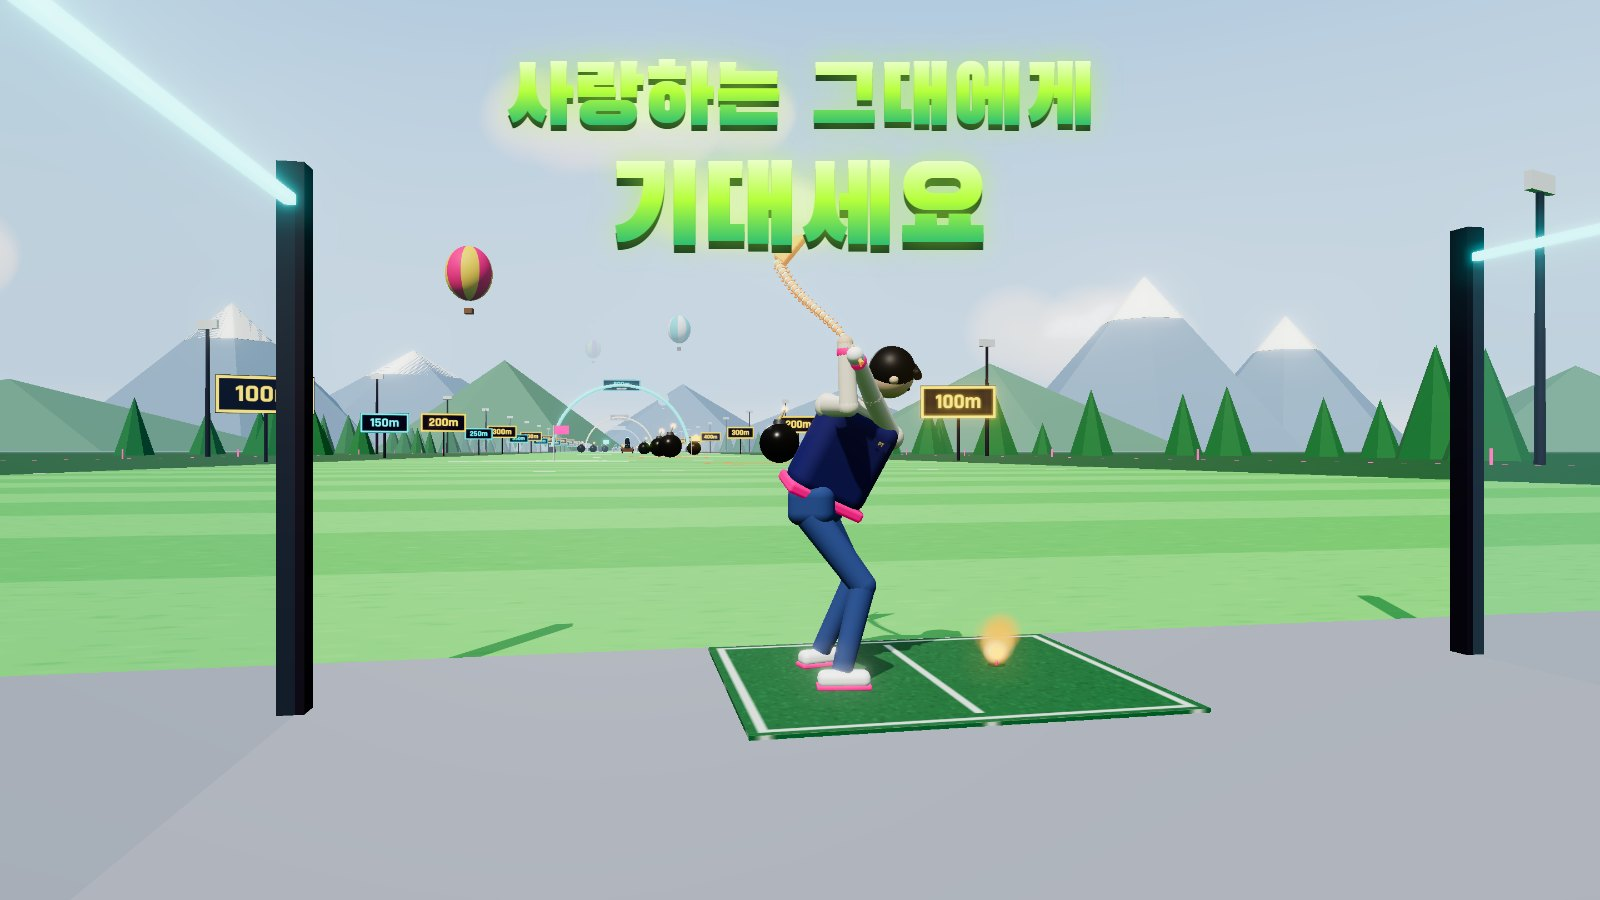
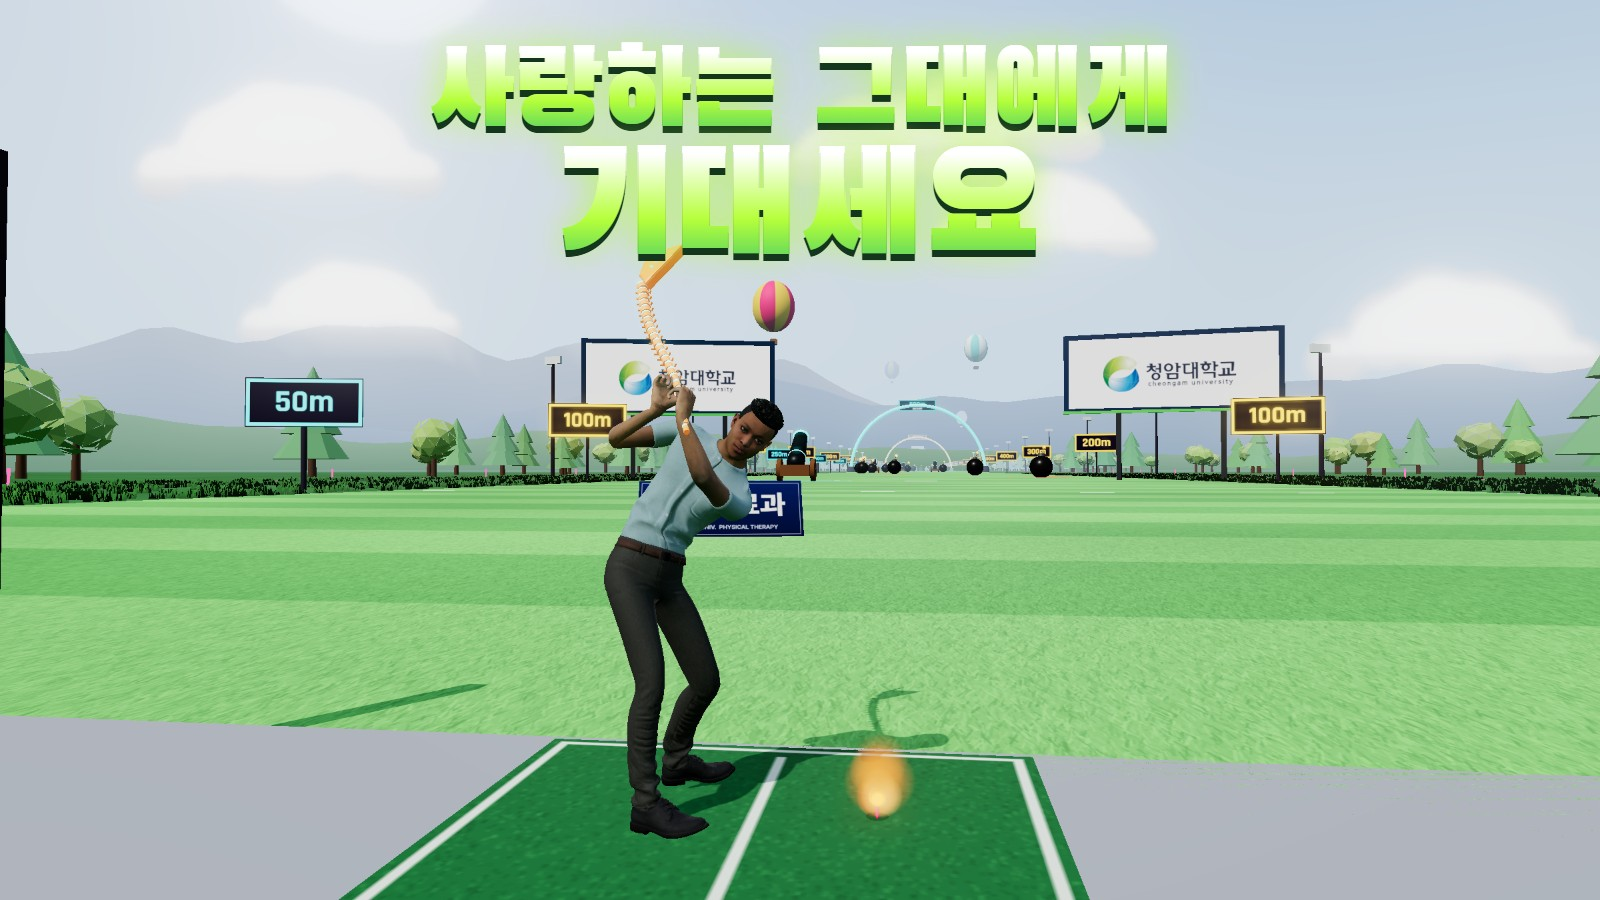
Golf game: 제리 unlocks at 500m, 라이더 at 1000m; new hub photos
- Characters with need: N open when the best distance reaches N m;
  locked buttons show the distance, a toast announces a new unlock
- Backswing-top detection scales to each character's hand range
  (short 제리 was picking the finish)
- The old stick-figure student stays hidden while a character loads
- Hub: new cover and banner background captured from the current game
- view3d.js?v=50, sw cache bump

diff --git a/games/LongDrive/index.html b/games/LongDrive/index.html
@@ -104,6 +104,7 @@ button { font: inherit; color: inherit; cursor: pointer; border: 0; background: 
 .charBtn.on { border-color: var(--lime); background: rgba(182, 255, 59, .14); box-shadow: 0 0 14px rgba(182, 255, 59, .35); }
 .charBtn.lock { opacity: .45; filter: grayscale(1); }
 .charBtn .lk { position: absolute; top: 5px; right: 6px; font-size: 14px; }
+.charBtn .need { display: block; font-size: 11px; font-weight: 700; color: var(--gold); margin-top: 1px; }
 .charTitle { font-size: 12px; color: var(--sub); margin: 0 0 6px 2px; }
 .who { margin-top: 12px; text-align: center; font-size: 13px; color: var(--sub); }
 .who b { color: var(--cyan); }
@@ -280,7 +281,7 @@ button { font: inherit; color: inherit; cursor: pointer; border: 0; background: 
 { "imports": { "three": "https://cdn.jsdelivr.net/npm/three@0.160.0/build/three.module.js",
                "three/addons/": "https://cdn.jsdelivr.net/npm/three@0.160.0/examples/jsm/" } }
 </script>
-<script type="module" src="view3d.js?v=49"></script>   <!-- 3D 코드를 고치면 v 숫자도 올려요 (휴대폰 옛 사본 방지) -->
+<script type="module" src="view3d.js?v=50"></script>   <!-- 3D 코드를 고치면 v 숫자도 올려요 (휴대폰 옛 사본 방지) -->
 <script>
 "use strict";
 /* ═══════════════════════════════════════════════════════════════
@@ -303,13 +304,14 @@ const CLUBS = [
 ];
 const OLD_CLUB_PRICES = [0, 60, 150, 300, 550, 900];   // 예전 금속 채 6개 (2026-11-18 까지) — 산 사람에게 캐쉬를 돌려줘요
 // 골프공 (4개, 약한 순서): drag = 공기 저항(작을수록 멀리), roll = 떨어진 뒤 굴러가는 비율, wind = 바람 영향. 3D 모양은 view3d.js buildBall()
-// 캐릭터 (Mixamo, models/chars/<file>.glb) · lock: true 면 잠겨 있어서 못 골라요
+// 캐릭터 (Mixamo, models/chars/<file>.glb · 사진은 <file>.webp) · need: 내 최고 기록이 이 거리(m) 이상이면 열려요
 const CHARS = [
   { name: "남자", ic: "🧑", file: "man" },
   { name: "여자", ic: "👩", file: "woman" },
-  { name: "제리", ic: "🐭", file: "mouse", lock: true },
-  { name: "라이더", ic: "🏍", file: "rider", lock: true },
+  { name: "제리", ic: "🐭", file: "mouse", need: 500 },
+  { name: "라이더", ic: "🏍", file: "rider", need: 1000 },
 ];
+const charLocked = (c, best = S.best) => !!c.need && best < c.need;
 const BALLS = [
   { name: "기본 골프공", ic: "⚪", price: 0,   drag: 1.00, roll: .18, wind: 1.00, desc: "평범한 하얀 골프공 · 기본" },
   { name: "무릎뼈 공",   ic: "🦴", price: 60,  drag: .88,  roll: .22, wind: .85,  desc: "무릎뼈만 떼어 만든 세모난 공" },
@@ -342,7 +344,7 @@ function fix(d) {
   s.owned = Object.assign({ club: [0], ball: [0] }, s.owned || {});
   s.club = Math.min(Math.max(0, s.club | 0), CLUBS.length - 1); s.ball = Math.min(Math.max(0, s.ball | 0), BALLS.length - 1);
   s.power = Math.min(Math.max(0, s.power | 0), POWER_MAX);
-  s.char = Math.min(Math.max(0, s.char | 0), CHARS.length - 1); if (CHARS[s.char].lock) s.char = 0;
+  s.char = Math.min(Math.max(0, s.char | 0), CHARS.length - 1); if (CHARS[s.char].need && s.best < CHARS[s.char].need) s.char = 0;
   if (d && (d.cv || 1) < 2) {   // 골프채가 뼈 채 4개로 바뀜: 예전 채 값을 돌려주고 기본 채부터
     s.cash += [...new Set(s.owned.club || [])].reduce((sum, i) => sum + (OLD_CLUB_PRICES[i] || 0), 0);
     s.owned.club = [0]; s.club = 0; s.cv = 2;
@@ -597,6 +599,8 @@ function finishShot() {
   if (ob) { msg.classList.add("ob"); msg.textContent = "옆으로 너무 벗어났어요! 기록 없음 😵"; sub.textContent = "노란 칸에 맞춰 칠수록 똑바로 날아가요"; snd("wrong"); }
   else if (dist > S.best + .05) {
     const before = S.best; S.best = Math.round(dist * 10) / 10;
+    const opened = CHARS.filter(c => charLocked(c, before) && !charLocked(c));
+    if (opened.length) setTimeout(() => { toast(`🔓 새 캐릭터 해금! ${opened.map(c => c.ic + ' ' + esc(c.name)).join(' · ')}<br><small>메뉴에서 고를 수 있어요</small>`); snd("buy"); }, 1200);
     msg.classList.add("best"); msg.textContent = before > 0 ? `🎉 최고 기록 갱신! (+${(dist - before).toFixed(1)}m)` : "🎉 첫 기록!";
     sub.textContent = member() ? "랭킹에 올리는 중…" : "로그인하면 이 기록이 랭킹에 올라가요";
     snd("best"); recordBest(dist).then(() => { if (member()) sub.textContent = topBoard && topBoard.myRank ? `지금 ${topBoard.myRank}위!` : "랭킹 저장 완료"; });
@@ -660,10 +664,10 @@ function refreshAll() {
 }
 function renderChars() {
   const box = $("charList"); if (!box) return;
-  box.innerHTML = CHARS.map((c, i) => `<button class="charBtn${i === S.char ? " on" : ""}${c.lock ? " lock" : ""}" data-char="${i}"><img src="models/chars/${c.file}.webp" alt="" draggable="false">${esc(c.name)}${c.lock ? '<span class="lk">🔒</span>' : ""}</button>`).join("");
+  box.innerHTML = CHARS.map((c, i) => { const lk = charLocked(c); return `<button class="charBtn${i === S.char ? " on" : ""}${lk ? " lock" : ""}" data-char="${i}"><img src="models/chars/${c.file}.webp" alt="" draggable="false">${esc(c.name)}${lk ? `<span class="need">🔒 ${fmt(c.need)}m</span>` : ""}</button>`; }).join("");
   box.querySelectorAll("[data-char]").forEach(b => b.onclick = () => {
     const i = +b.dataset.char, c = CHARS[i];
-    if (c.lock) { toast(`🔒 ${esc(c.name)} 캐릭터는 아직 잠겨 있어요`); return; }
+    if (charLocked(c)) { toast(`🔒 최고 기록 ${fmt(c.need)}m 를 넘기면 ${esc(c.name)} 캐릭터가 열려요<br><small>지금 내 최고 ${fmt(S.best)}m</small>`); return; }
     if (i === S.char) return;
     S.char = i; snd("buy"); toast(`${c.ic} ${esc(c.name)} 캐릭터로 바꿨어요!`); save(); refreshAll();
   });

diff --git a/games/LongDrive/view3d.js b/games/LongDrive/view3d.js
@@ -650,6 +650,7 @@ function swingPose(now) {
  *  캐릭터 목록 · 잠금은 index.html 의 CHARS 에 있어요 (파일 이름이 같아야 해요).
  * ═══════════════════════════════════════════════════════════════ */
 const CHAR_FILES = ['man', 'woman', 'mouse', 'rider'];
+golfer.visible = false;   // 캐릭터 파일을 받는 동안 옛 학생이 잠깐 보이지 않게
 const CLUB_LEN0 = CLUB_LEN;   // 학생 기준 채 길이 (공 자리 계산용)
 const FBX = { model: null, mixer: null, act: null, lead: null, trail: null, armL: null, armR: null, hips: null, t: { addr: 0, top: 0, imp: 0, fin: 0 } };
 let charWant = -1, charToken = 0;
@@ -672,6 +673,7 @@ function loadChar(i) {
     o.traverse(b => { if (/LeftHand$/.test(b.name)) F.lead = b; if (/RightHand$/.test(b.name)) F.trail = b; if (/LeftArm$/.test(b.name)) F.armL = b; if (/RightArm$/.test(b.name)) F.armR = b; if (/Hips$/.test(b.name)) F.hips = b; });
     if (!F.lead || !F.trail || !F.armL || !F.armR || !F.hips) return;
     if (FBX.model) golfer.remove(FBX.model);
+    golfer.visible = true;
     Object.assign(FBX, F, { model: null });
     golfer.add(o);
     FBX.mixer = new THREE.AnimationMixer(o); FBX.act = FBX.mixer.clipAction(clip); FBX.act.play();
@@ -682,7 +684,8 @@ function loadChar(i) {
     // 백스윙 꼭대기 = 손이 처음으로 높이 올라갔다가 다시 내려가기 시작하는 순간 (피니시가 더 높아서 '가장 높은 곳'은 안 돼요)
     const n = ys.length, y0 = Math.min(...ys.slice(0, Math.round(.6 / step)));
     let iTop = 1;
-    for (let i = 1; i < n - 1; i++) { if (ys[i] > y0 + .35 && ys[i] >= ys[i - 1] && ys[i] >= ys[i + 1]) { iTop = i; break; } }
+    const yMax = Math.max(...ys), thr = y0 + (yMax - y0) * .45;   // 키가 작은 캐릭터도 맞게 (손이 오르는 높이의 45%)
+    for (let i = 1; i < n - 1; i++) { if (ys[i] > thr && ys[i] >= ys[i - 1] && ys[i] >= ys[i + 1]) { iTop = i; break; } }
     const iImp = argmin(iTop, Math.min(n, iTop + Math.round(.7 / step)));
     const iFin = argmax(iImp, Math.min(n, iImp + Math.round(1 / step)));
     const iAddr = argmin(0, iTop);
@@ -705,7 +708,7 @@ function loadChar(i) {
     clubGroups.forEach(g => g && golfer.remove(g)); clubGroups.length = 0; lookClub = -1;
     FBX.model = o;
     window.GolfView && (window.GolfView.fbx = FBX);
-  }, undefined, () => { /* 못 불러오면 지금 모습 그대로 */ });
+  }, undefined, () => { golfer.visible = true; /* 못 불러오면 직접 만든 학생으로 */ });
 }
 function fbxTime(now) {
   const T = FBX.t, ph = phase, back = (k) => T.addr + (T.top - T.addr) * k;

diff --git a/highgo.html b/highgo.html
@@ -759,7 +759,7 @@ const APPS = [
     desc: "누가 더 멀리 치나! 물리치료기초 기출문제(2019~2025, 420문제)를 맞혀 캐쉬를 벌고, 골프채 · 골프공 · 파워를 사서 비거리를 늘려요. 내 최고 기록은 회원 랭킹에 자동으로 올라가요.",
     url: "games/LongDrive/index.html",
     glow: "#b6ff3b",
-    thumb: "thumbs/longdrive-day.jpg",   // 게임 화면 캡처 (낮 연습장 · 척추 채 · 파이어볼)
+    thumb: "thumbs/longdrive-day.jpg",   // 게임 화면 캡처 (3D 캐릭터 · 척추 채 · 파이어볼, 2026-11-24)
     hero: "thumbs/longdrive-day.jpg",
     bg: "thumbs/bg-longdrive.jpg",       // 배너 전체 배경 (게임 속 낮 연습장을 넓게 캡처)
     bgPos: "center 40%",                 // 하늘 · 산 · 열기구 · 대포가 보이게

diff --git a/sw.js b/sw.js
@@ -9,7 +9,7 @@
  * its body with a worker that clears CACHE and calls self.registration.unregister(),
  * and drop the register line in highgo.html.
  */
-const CACHE = 'samgongyuk-v49';   // bump on every game update so phones drop the old copy
+const CACHE = 'samgongyuk-v50';   // bump on every game update so phones drop the old copy
 const HUB = /\/(highgo\.html|index\.html)?$/;
 
 self.addEventListener('install', () => self.skipWaiting());
